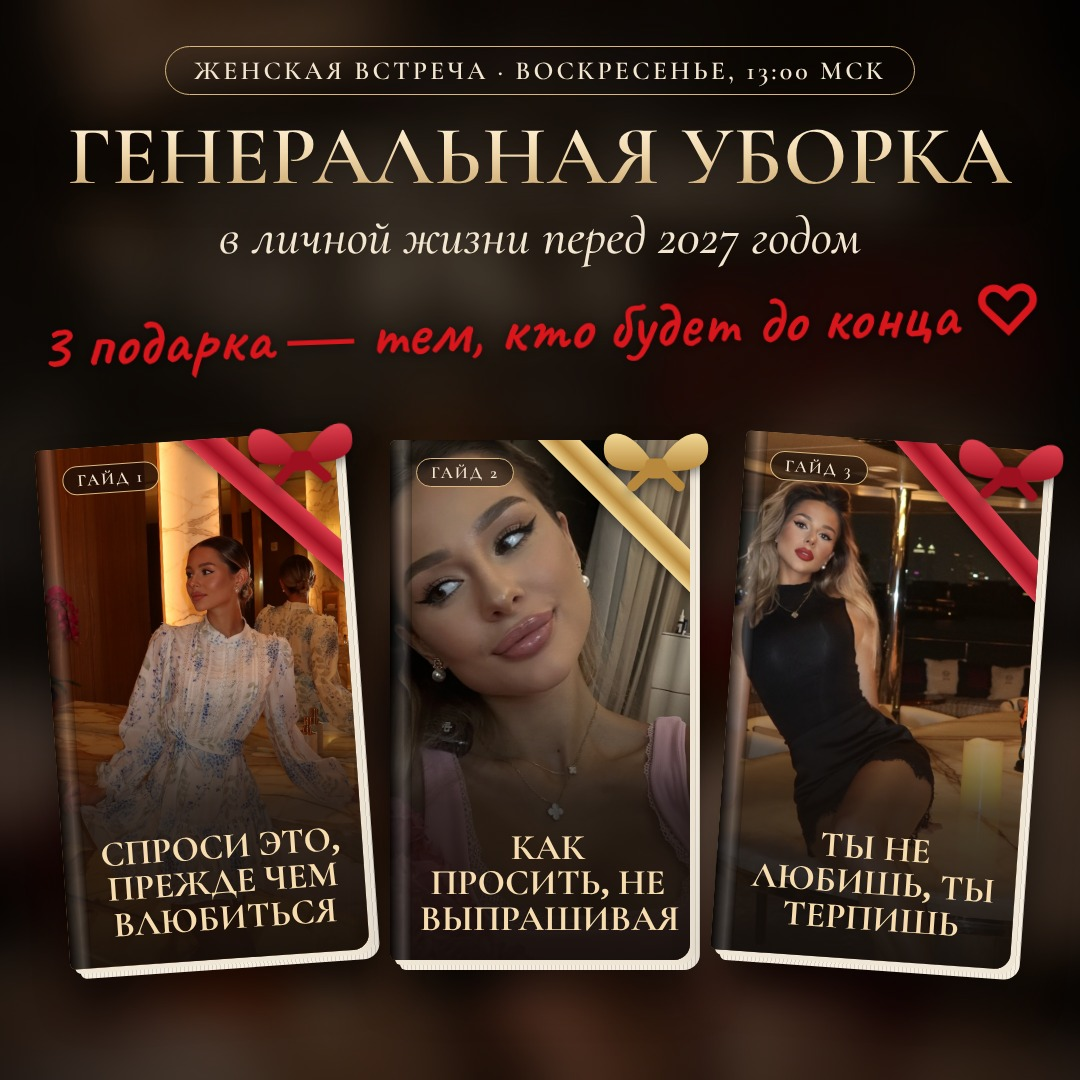
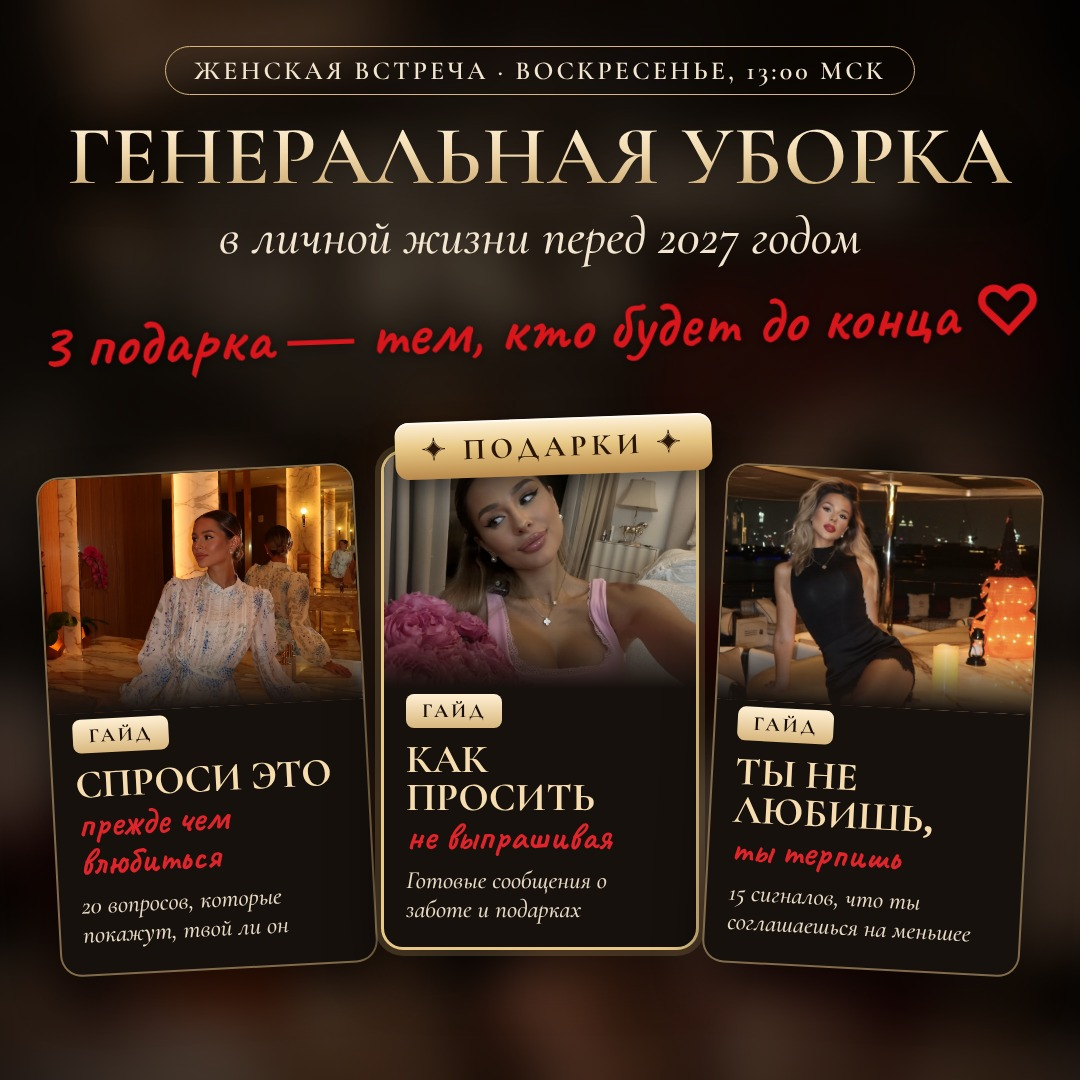
Обложка-приглашение: карточки гайдов как в прошлом запуске
Claude-Session: https://claude.ai/code/session_01QvxPhZFmoV4wpS6odsdhe8

diff --git a/guides/src/bot_covers_2.js b/guides/src/bot_covers_2.js
@@ -59,43 +59,28 @@ const covers = {
  <div class="abs gold" style="left:0;right:0;top:118px;text-align:center;font-size:84px;white-space:nowrap">Генеральная уборка</div>
  <div class="abs it" style="left:0;right:0;top:205px;text-align:center;font-size:52px">в личной жизни перед 2027 годом</div>
  <div class="abs red" style="left:0;right:0;top:296px;text-align:center;font-size:66px;white-space:nowrap;transform:rotate(-2deg)">3 подарка — тем, кто будет до конца ♡</div>
-<div class="abs" style="left:52px;top:440px;width:300px;height:520px;transform:rotate(-4deg)">
-  <div style="position:absolute;left:10px;top:10px;width:300px;height:520px;border-radius:6px 16px 16px 6px;background:repeating-linear-gradient(90deg,#f4ede0 0 3px,#d8cfbf 3px 4px);box-shadow:0 24px 40px rgba(0,0,0,.6)"></div>
-  <div style="position:absolute;left:5px;top:5px;width:300px;height:520px;border-radius:6px 16px 16px 6px;background:#efe6d6"></div>
-  <div style="position:absolute;inset:0;border-radius:6px 16px 16px 6px;overflow:hidden;background:#140e0a;box-shadow:inset 0 0 0 2px rgba(217,183,126,.8)">
-    <img src="file://${D}/n_marble.jpg" style="position:absolute;inset:0;width:100%;height:100%;object-fit:cover;object-position:50% 25%">
-    <div style="position:absolute;inset:0;background:linear-gradient(0deg,rgba(20,14,10,.95) 0%,rgba(20,14,10,.75) 30%,rgba(20,14,10,0) 55%)"></div>
-    <div style="position:absolute;left:0;top:0;bottom:0;width:22px;background:linear-gradient(90deg,rgba(0,0,0,.65),rgba(255,255,255,.18) 60%,rgba(0,0,0,.25))"></div>
-    <div style="position:absolute;left:26px;top:18px"><span style="display:inline-block;border:1.5px solid #d9b77e;border-radius:30px;padding:3px 14px;font-family:Corm;font-weight:600;font-size:17px;letter-spacing:.12em;color:#f3e6d0;text-transform:uppercase;background:rgba(20,14,10,.6)">Гайд 1</span></div>
-    <div style="position:absolute;left:30px;right:14px;bottom:24px;text-align:center;font-family:Corm;font-weight:700;font-size:36px;line-height:.98;text-transform:uppercase;color:#f6dcae">Спроси это, прежде чем влюбиться</div>
-    <div style="position:absolute;right:-60px;top:46px;width:260px;height:30px;transform:rotate(45deg);background:linear-gradient(180deg,#e0414f,#9d1020 55%,#e0414f);box-shadow:0 3px 8px rgba(0,0,0,.4)"></div>
-  </div>
-  <svg style="position:absolute;right:-26px;top:-34px;width:120px;height:90px;z-index:6;filter:drop-shadow(0 4px 6px rgba(0,0,0,.5))" viewBox="0 0 144 84"><defs><linearGradient id="b1" x1="0" y1="0" x2="0" y2="1"><stop offset="0" stop-color="#e0414f"/><stop offset="1" stop-color="#9d1020"/></linearGradient></defs><path d="M72 64 C42 8,4 12,10 46 C14 68,50 68,72 64Z" fill="url(#b1)"/><path d="M72 64 C102 8,140 12,134 46 C130 68,94 68,72 64Z" fill="url(#b1)"/><path d="M64 64 L44 84 M80 64 L100 84" stroke="#9d1020" stroke-width="13" stroke-linecap="round"/><rect x="59" y="51" width="26" height="24" rx="7" fill="#9d1020"/></svg>
-</div><div class="abs" style="left:390px;top:440px;width:300px;height:520px;transform:rotate(0deg)">
-  <div style="position:absolute;left:10px;top:10px;width:300px;height:520px;border-radius:6px 16px 16px 6px;background:repeating-linear-gradient(90deg,#f4ede0 0 3px,#d8cfbf 3px 4px);box-shadow:0 24px 40px rgba(0,0,0,.6)"></div>
-  <div style="position:absolute;left:5px;top:5px;width:300px;height:520px;border-radius:6px 16px 16px 6px;background:#efe6d6"></div>
-  <div style="position:absolute;inset:0;border-radius:6px 16px 16px 6px;overflow:hidden;background:#140e0a;box-shadow:inset 0 0 0 2px rgba(217,183,126,.8)">
-    <img src="file://${D}/n_selfie.jpg" style="position:absolute;inset:0;width:100%;height:100%;object-fit:cover;object-position:50% 30%">
-    <div style="position:absolute;inset:0;background:linear-gradient(0deg,rgba(20,14,10,.95) 0%,rgba(20,14,10,.75) 30%,rgba(20,14,10,0) 55%)"></div>
-    <div style="position:absolute;left:0;top:0;bottom:0;width:22px;background:linear-gradient(90deg,rgba(0,0,0,.65),rgba(255,255,255,.18) 60%,rgba(0,0,0,.25))"></div>
-    <div style="position:absolute;left:26px;top:18px"><span style="display:inline-block;border:1.5px solid #d9b77e;border-radius:30px;padding:3px 14px;font-family:Corm;font-weight:600;font-size:17px;letter-spacing:.12em;color:#f3e6d0;text-transform:uppercase;background:rgba(20,14,10,.6)">Гайд 2</span></div>
-    <div style="position:absolute;left:30px;right:14px;bottom:24px;text-align:center;font-family:Corm;font-weight:700;font-size:36px;line-height:.98;text-transform:uppercase;color:#f6dcae">Как просить, не выпрашивая</div>
-    <div style="position:absolute;right:-60px;top:46px;width:260px;height:30px;transform:rotate(45deg);background:linear-gradient(180deg,#f3d996,#b8893c 55%,#f3d996);box-shadow:0 3px 8px rgba(0,0,0,.4)"></div>
-  </div>
-  <svg style="position:absolute;right:-26px;top:-34px;width:120px;height:90px;z-index:6;filter:drop-shadow(0 4px 6px rgba(0,0,0,.5))" viewBox="0 0 144 84"><defs><linearGradient id="b2" x1="0" y1="0" x2="0" y2="1"><stop offset="0" stop-color="#f3d996"/><stop offset="1" stop-color="#b8893c"/></linearGradient></defs><path d="M72 64 C42 8,4 12,10 46 C14 68,50 68,72 64Z" fill="url(#b2)"/><path d="M72 64 C102 8,140 12,134 46 C130 68,94 68,72 64Z" fill="url(#b2)"/><path d="M64 64 L44 84 M80 64 L100 84" stroke="#b8893c" stroke-width="13" stroke-linecap="round"/><rect x="59" y="51" width="26" height="24" rx="7" fill="#b8893c"/></svg>
-</div><div class="abs" style="left:728px;top:440px;width:300px;height:520px;transform:rotate(4deg)">
-  <div style="position:absolute;left:10px;top:10px;width:300px;height:520px;border-radius:6px 16px 16px 6px;background:repeating-linear-gradient(90deg,#f4ede0 0 3px,#d8cfbf 3px 4px);box-shadow:0 24px 40px rgba(0,0,0,.6)"></div>
-  <div style="position:absolute;left:5px;top:5px;width:300px;height:520px;border-radius:6px 16px 16px 6px;background:#efe6d6"></div>
-  <div style="position:absolute;inset:0;border-radius:6px 16px 16px 6px;overflow:hidden;background:#140e0a;box-shadow:inset 0 0 0 2px rgba(217,183,126,.8)">
-    <img src="file://${D}/n_yacht.jpg" style="position:absolute;inset:0;width:100%;height:100%;object-fit:cover;object-position:50% 25%">
-    <div style="position:absolute;inset:0;background:linear-gradient(0deg,rgba(20,14,10,.95) 0%,rgba(20,14,10,.75) 30%,rgba(20,14,10,0) 55%)"></div>
-    <div style="position:absolute;left:0;top:0;bottom:0;width:22px;background:linear-gradient(90deg,rgba(0,0,0,.65),rgba(255,255,255,.18) 60%,rgba(0,0,0,.25))"></div>
-    <div style="position:absolute;left:26px;top:18px"><span style="display:inline-block;border:1.5px solid #d9b77e;border-radius:30px;padding:3px 14px;font-family:Corm;font-weight:600;font-size:17px;letter-spacing:.12em;color:#f3e6d0;text-transform:uppercase;background:rgba(20,14,10,.6)">Гайд 3</span></div>
-    <div style="position:absolute;left:30px;right:14px;bottom:24px;text-align:center;font-family:Corm;font-weight:700;font-size:36px;line-height:.98;text-transform:uppercase;color:#f6dcae">Ты не любишь, ты терпишь</div>
-    <div style="position:absolute;right:-60px;top:46px;width:260px;height:30px;transform:rotate(45deg);background:linear-gradient(180deg,#e0414f,#9d1020 55%,#e0414f);box-shadow:0 3px 8px rgba(0,0,0,.4)"></div>
-  </div>
-  <svg style="position:absolute;right:-26px;top:-34px;width:120px;height:90px;z-index:6;filter:drop-shadow(0 4px 6px rgba(0,0,0,.5))" viewBox="0 0 144 84"><defs><linearGradient id="b3" x1="0" y1="0" x2="0" y2="1"><stop offset="0" stop-color="#e0414f"/><stop offset="1" stop-color="#9d1020"/></linearGradient></defs><path d="M72 64 C42 8,4 12,10 46 C14 68,50 68,72 64Z" fill="url(#b3)"/><path d="M72 64 C102 8,140 12,134 46 C130 68,94 68,72 64Z" fill="url(#b3)"/><path d="M64 64 L44 84 M80 64 L100 84" stroke="#9d1020" stroke-width="13" stroke-linecap="round"/><rect x="59" y="51" width="26" height="24" rx="7" fill="#9d1020"/></svg>
-</div>`),
+<div class="abs" style="left:48px;top:470px;width:318px;height:500px;transform:rotate(-3deg);border-radius:22px;overflow:hidden;border:2px solid rgba(217,183,126,.55);box-shadow:0 22px 44px rgba(0,0,0,.55);background:#17110d">
+  <div style="height:235px;position:relative;overflow:hidden"><img src="file://${D}/n_marble.jpg" style="width:100%;height:100%;object-fit:cover;object-position:50% 22%"><div style="position:absolute;left:0;right:0;bottom:0;height:60px;background:linear-gradient(0deg,#17110d,rgba(23,17,13,0))"></div></div>
+  <div style="padding:6px 22px 0">
+    <span style="display:inline-block;padding:5px 16px;border-radius:8px;background:linear-gradient(180deg,#fff0d4,#d9b77e);color:#1a0f08;font-family:Corm;font-weight:700;font-size:20px;letter-spacing:.14em">ГАЙД</span>
+    <div style="margin-top:12px;font-family:Corm;font-weight:700;font-size:40px;line-height:.95;text-transform:uppercase;color:#f6dcae">Спроси это</div>
+    <div style="font-family:Cav;font-weight:700;font-size:38px;line-height:1;color:#e0242b;margin-top:2px">прежде чем влюбиться</div>
+    <div style="font-family:CormI;font-style:italic;font-size:25px;line-height:1.15;color:#e9dcc6;margin-top:10px">20 вопросов, которые покажут, твой ли он</div>
+  </div></div><div class="abs" style="left:381px;top:450px;width:318px;height:500px;transform:rotate(0deg);border-radius:22px;overflow:hidden;border:3px solid #e8c886;box-shadow:0 0 0 6px rgba(232,200,134,.18),0 26px 50px rgba(0,0,0,.6);background:#17110d">
+  <div style="height:235px;position:relative;overflow:hidden"><img src="file://${D}/n_selfie.jpg" style="width:100%;height:100%;object-fit:cover;object-position:50% 28%"><div style="position:absolute;left:0;right:0;bottom:0;height:60px;background:linear-gradient(0deg,#17110d,rgba(23,17,13,0))"></div></div>
+  <div style="padding:6px 22px 0">
+    <span style="display:inline-block;padding:5px 16px;border-radius:8px;background:linear-gradient(180deg,#fff0d4,#d9b77e);color:#1a0f08;font-family:Corm;font-weight:700;font-size:20px;letter-spacing:.14em">ГАЙД</span>
+    <div style="margin-top:12px;font-family:Corm;font-weight:700;font-size:40px;line-height:.95;text-transform:uppercase;color:#f6dcae">Как просить</div>
+    <div style="font-family:Cav;font-weight:700;font-size:38px;line-height:1;color:#e0242b;margin-top:2px">не выпрашивая</div>
+    <div style="font-family:CormI;font-style:italic;font-size:25px;line-height:1.15;color:#e9dcc6;margin-top:10px">Готовые сообщения о заботе и подарках</div>
+  </div></div><div class="abs" style="left:714px;top:470px;width:318px;height:500px;transform:rotate(3deg);border-radius:22px;overflow:hidden;border:2px solid rgba(217,183,126,.55);box-shadow:0 22px 44px rgba(0,0,0,.55);background:#17110d">
+  <div style="height:235px;position:relative;overflow:hidden"><img src="file://${D}/n_yacht.jpg" style="width:100%;height:100%;object-fit:cover;object-position:50% 18%"><div style="position:absolute;left:0;right:0;bottom:0;height:60px;background:linear-gradient(0deg,#17110d,rgba(23,17,13,0))"></div></div>
+  <div style="padding:6px 22px 0">
+    <span style="display:inline-block;padding:5px 16px;border-radius:8px;background:linear-gradient(180deg,#fff0d4,#d9b77e);color:#1a0f08;font-family:Corm;font-weight:700;font-size:20px;letter-spacing:.14em">ГАЙД</span>
+    <div style="margin-top:12px;font-family:Corm;font-weight:700;font-size:40px;line-height:.95;text-transform:uppercase;color:#f6dcae">Ты не любишь,</div>
+    <div style="font-family:Cav;font-weight:700;font-size:38px;line-height:1;color:#e0242b;margin-top:2px">ты терпишь</div>
+    <div style="font-family:CormI;font-style:italic;font-size:25px;line-height:1.15;color:#e9dcc6;margin-top:10px">15 сигналов, что ты соглашаешься на меньшее</div>
+  </div></div><div class="abs" style="left:395px;top:418px;padding:10px 26px;border-radius:14px;background:linear-gradient(180deg,#fff3dc 0%,#e8c886 45%,#b8894a 100%);box-shadow:0 10px 24px rgba(0,0,0,.5),inset 0 2px 0 rgba(255,255,255,.7);font-family:Corm;font-weight:700;font-size:30px;letter-spacing:.16em;color:#2a1608;transform:rotate(-2deg)">✦ ПОДАРКИ ✦</div>`),
 '02_красный_флаг': P(`
  <div class="photo" style="right:70px;top:90px;width:360px;height:360px;border-color:rgba(216,22,28,.6)"><img src="file://${D}/man.jpg" style="filter:brightness(.9)"></div>
  <svg class="abs" style="right:70px;top:90px" width="360" height="360"><path d="M30 40 L330 320 M320 30 L40 330" stroke="#d8161c" stroke-width="16" stroke-linecap="round" opacity=".9"/></svg>
